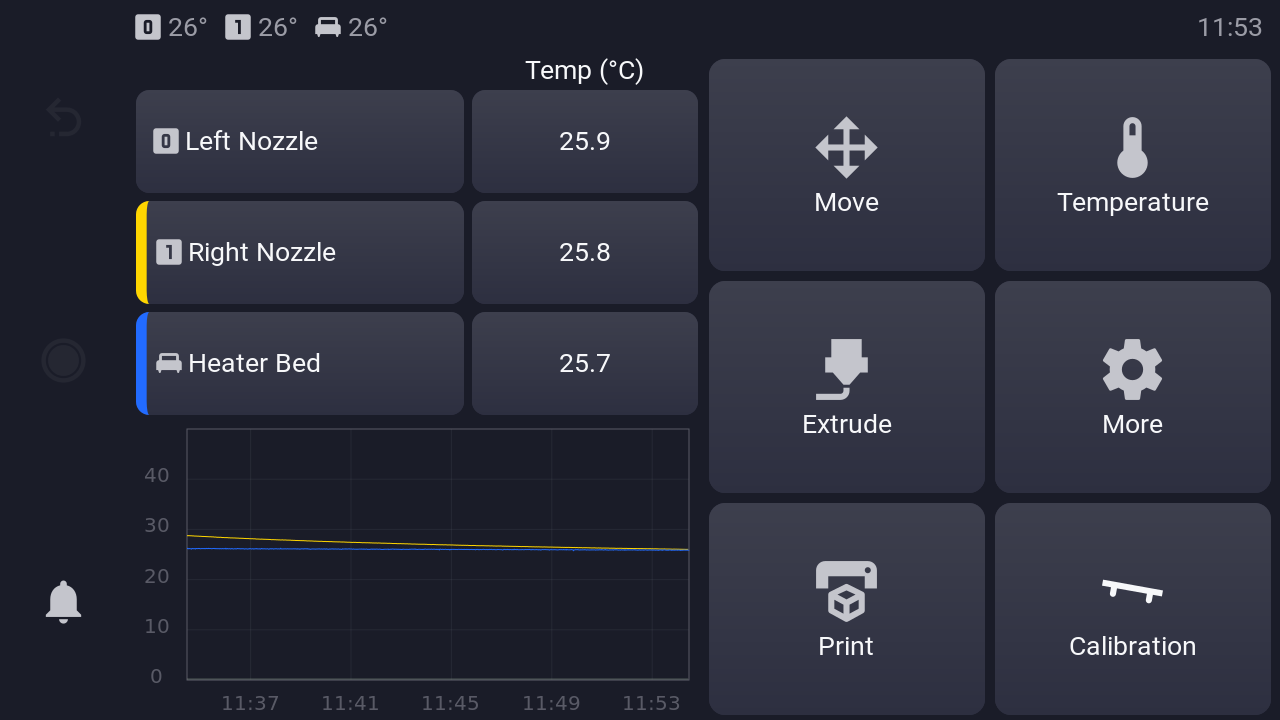
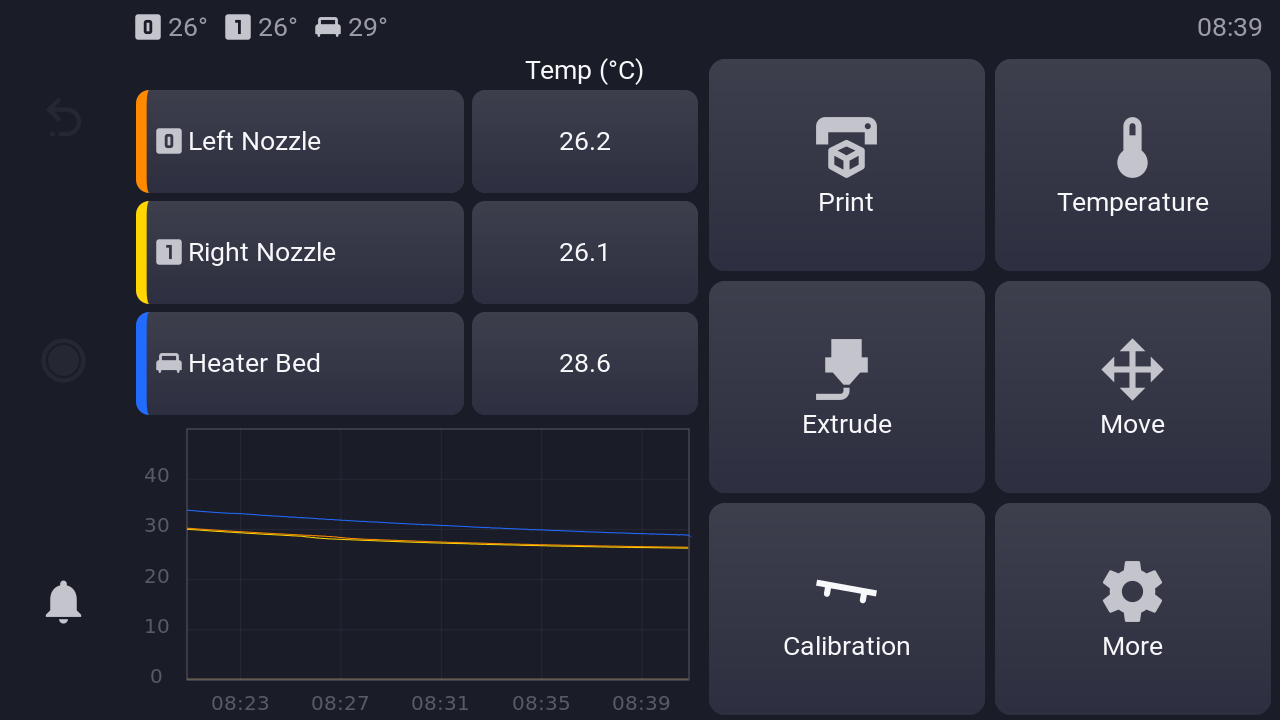
Describe both ways between the stock firmware and Klipper
The README describes the installation from a USB stick (stock firmware
-> Klipper) and the way back (Klipper -> stock firmware) with every
screen on the way.  The user manual has the new menus with new pictures
(main menu, More, Network, the end of System and Stock Firmware); the
system picture shows no addresses of the test printer.

diff --git a/docs/Manual.md b/docs/Manual.md
@@ -40,10 +40,10 @@ implemented, configuration) see [Snapmaker_J1.md](Snapmaker_J1.md).
 > **Important.**  Do both steps on the first start, before the first
 > print.
 
-1. **Connect the WLAN** under **More → Network**: choose the network and
-   enter its password.  The printer needs the network for
+1. **Connect the WLAN** under **More → Network → WLAN**: choose the
+   network and enter its password.  The printer needs the network for
    - the **clock**: the display module has no battery for its clock and
-     takes the time from the network (see [Clock](#network-name-and-clock));
+     takes the time from the network (see [Clock](#clock));
    - the **updates** of KlipperSnapmakerJ1, Klipper, Moonraker and
      KlipperScreen; the printer checks for updates as soon as the WLAN is
      connected;
@@ -75,16 +75,17 @@ shutdown button: the J1 is switched off with its power switch.
 **Main menu.**
 - **Left:** the heaters with their current temperatures and a graph of
   the last minutes.  Tap a heater to set its temperature.
-- **Right:** the six main entries.
+- **Right:** the six main entries, in the order of a print: the print
+  itself first, then preparing it, the setup and More last.
 
 | Entry | Content |
 | --- | --- |
-| Move | home and move the axes, switch the active toolhead |
+| Print | files on the printer |
 | Temperature | heat, cool down, material presets |
 | Extrude | load, unload, extrude, filament sensors, pressure advance |
-| More | settings, fans, light, network, updates, console |
-| Print | files on the printer |
+| Move | home and move the axes, switch the active toolhead |
 | Calibration | the J1 calibration menu |
+| More | settings, fans, light, network, updates, console, system |
 
 The left nozzle is called **Left Nozzle** (T0, `extruder`) and the right
 one **Right Nozzle** (T1, `extruder1`).
@@ -496,11 +497,17 @@ set its thickness in 0.1 mm steps and tap **Save**.  It applies at once.
 
 ![More](manual/more.png)
 
-The generic KlipperScreen entries are joined by J1 entries: Light,
-Network Name, Clock and Pause Standby.  The generic bed level, bed mesh,
-Z calibrate, input shaper and Save Config entries are hidden.  The
-calibration menu covers them, and its results are stored without Save
-Config.
+The entries are arranged in three rows:
+
+| Row | Entries |
+| --- | --- |
+| Printing | Fine Tuning, Limits, Fan, Pause Standby |
+| Settings of the printer | Light, Clock, Network, KlipperScreen |
+| Tools and maintenance | Macros, Console, Update, System |
+
+The generic bed level, bed mesh, Z calibrate, input shaper and Save
+Config entries are hidden.  The calibration menu covers them, and its
+results are stored without Save Config.
 
 ### Light
 
@@ -558,37 +565,68 @@ What happens to a paused print:
 
 Set the bed standby temperature and the delay here; they are kept.
 
-### Network Name and Clock
+### Network
 
 <table>
-<tr><td><img src="manual/network-name.png" width="420"></td>
-<td><img src="manual/clock.png" width="420"></td></tr>
+<tr><td><img src="manual/network.png" width="420"></td>
+<td><img src="manual/network-name.png" width="420"></td></tr>
 </table>
 
+- **WLAN:** choose the network and enter its password; the page also
+  shows the address of the printer.
 - **Network Name:** the name of the printer in the network.  The web
   interface is reached at `http://<name>.local`.  Give each printer its
   own name when you have several.
-- **Clock:** sets the time zone and switches the clock in the title bar
-  on or off.  **The clock only runs correctly with the WLAN connected:**
-  the display module has no battery for its clock and takes the time
-  from the network.  Without a network the printer starts with the last
-  time it knew, so the clock, the print history and the log files show
-  a wrong time.
+
+### Clock
+
+![Clock](manual/clock.png)
+
+Sets the time zone and switches the clock in the title bar on or off.
+**The clock only runs correctly with the WLAN connected:** the display
+module has no battery for its clock and takes the time from the network.
+Without a network the printer starts with the last time it knew, so the
+clock, the print history and the log files show a wrong time.
 
 ### Other entries
 
 | Entry | Content |
 | --- | --- |
+| KlipperScreen | settings of the screen (language, theme, font size) |
 | Macros | runs Klipper macros |
 | Console | Klipper's g-code console |
 | Update | updates of KlipperSnapmakerJ1, Klipper, Moonraker and KlipperScreen |
-| KlipperScreen | settings of the screen (language, theme, font size) |
-| Network | WLAN connection |
-| System | system information, restart and shutdown of the host |
+| System | system information of the display module; at its end the way back to the [stock firmware](#back-to-the-stock-firmware) |
 
 **Updates.** Update KlipperSnapmakerJ1 first.  Klipper, Moonraker and
 KlipperScreen are offered only up to the versions this release is tested
 with.
+
+### Back to the stock firmware
+
+<table>
+<tr><td><img src="manual/system-stock.png" width="420"></td>
+<td><img src="manual/stock-firmware.png" width="420"></td></tr>
+</table>
+
+A fallback, so it sits at the end of **More → System** (scroll down):
+**Stock Firmware** returns the printer to the Snapmaker firmware.  It
+needs a USB stick with the contents of the stock firmware package (the
+official `J1_V*.bin` and the folder `stock-restore`).
+
+1. Plug in the stick and open **Stock Firmware**.  The page searches the
+   stick and shows the package and the Snapmaker system it found; **Search
+   USB Stick** searches again.
+2. Tap **Restore Stock Firmware** and confirm.  Not possible while
+   printing.
+3. Leave the stick plugged in and do not switch the printer off.  The
+   main controller gets the Snapmaker firmware, then the printer restarts
+   into its maintenance system, which writes the Snapmaker system, and
+   starts the Snapmaker system.
+
+Klipper, its settings, the calibrations and the files on the printer are
+deleted.  The Snapmaker setup then starts as on a new printer.  The
+[installation](../README.md#installation) describes both ways in full.
 
 ## Safety and error messages
 
@@ -634,7 +672,7 @@ The protections of the stock firmware are active:
 Besides the touch screen, the printer is operated from any browser in the
 network with **Mainsail**, which runs on the printer itself.  Open
 `http://snapmaker-j1.local`, or the name set in
-[Network Name](#network-name-and-clock), or the IP address shown in
+[Network Name](#network), or the IP address shown in
 KlipperScreen.  Touch screen and web interface work at the same time and
 always show the same state.
 

diff --git a/README.md b/README.md
@@ -115,31 +115,75 @@ starts prints directly.
 
 ## Installation
 
-> **In preparation.** The steps below describe the planned installation
-> from a USB stick.  Until the package is released, the installation
-> needs the EDL mode of the display module and a Linux computer, see the
-> [installation of KlipperSnapmakerJ1-os](https://github.com/Nimrasol/KlipperSnapmakerJ1-os/blob/main/docs/INSTALL.md).
+> **In preparation.** Both ways below run from a USB stick, without
+> opening the printer, and are tested on one J1.  Until the packages are
+> released, they are built with
+> [KlipperSnapmakerJ1-os](https://github.com/Nimrasol/KlipperSnapmakerJ1-os);
+> the installation in the EDL mode of the display module is described
+> in its [installation guide](https://github.com/Nimrasol/KlipperSnapmakerJ1-os/blob/main/docs/INSTALL.md).
 
-1. **Download** the installation package from the
-   [releases page](https://github.com/Nimrasol/KlipperSnapmakerJ1/releases/latest)
-   and copy it to a USB stick (FAT32).
+### Stock firmware → Klipper
+
+The installation package holds an update package for the Snapmaker
+system (`J1_V*.bin`: the stock main controller firmware and the
+installer) and the Klipper system in the folder `install`.
+
+1. **Copy** the contents of the installation package to a USB stick
+   (FAT32): `J1_V*.bin` and the folder `install`.
 2. **Insert the stick** into the USB port on the front of the J1 and
-   start the update on the stock touch screen.
-3. **Wait** until the printer restarts.  The Klipper main menu appears on
-   the touch screen.
-4. **Connect to your network** under **More → Network** (required).  The
-   clock, the updates and the web interface need it; the printer is then
-   reachable at `http://snapmaker-j1.local`.
+   start the firmware update from the USB stick on the Snapmaker touch
+   screen; confirm it.
+3. **Wait**, leave the stick plugged in and do not switch the printer
+   off.  The printer runs through these screens by itself:
+   - the Snapmaker update up to 99 %;
+   - **Klipper installation** for a moment, a white screen, then the
+     screen goes dark for up to a minute while the boot partitions are
+     written;
+   - the Snapmaker logo, then white text: the maintenance system checks
+     the files on the stick and writes the Klipper system (a few
+     minutes);
+   - the first start of Klipper installs the Klipper firmware on the
+     main controller (about a minute), then the Klipper main menu
+     appears.
+4. **Connect to your network** under **More → Network → WLAN**
+   (required).  The clock, the updates and the web interface need it;
+   the printer is then reachable at `http://snapmaker-j1.local`.
 5. **Calibrate** in the **Calibration** menu before the first print
    (required), in the order of the
    [user manual](docs/Manual.md#first-start-connect-the-wlan-and-calibrate):
    bed leveling, Z offset, XY offset, offset check.  Without it the
    nozzle height and the offset between the nozzles are not right.
 
-### Back to the stock firmware
+If the screen **Klipper installation** reports a failure, or stays
+without restarting the printer, tap **Back to Snapmaker**: the Snapmaker
+app returns.  Until the printer restarts, nothing of the Snapmaker system
+has been changed.
 
-*In preparation:* the stock firmware package installs the stock system
-again the same way, from a USB stick.
+### Klipper → stock firmware
+
+The stock firmware package holds the official Snapmaker update package
+(`J1_V*.bin`) and the Snapmaker system of the display module in the
+folder `stock-restore`.
+
+1. **Copy** the contents of the stock firmware package to a USB stick
+   (FAT32) and insert it into the USB port on the front of the J1.
+2. On the touch screen open **More → System**, scroll to the end and tap
+   **Stock Firmware**.  The page shows the package and the Snapmaker
+   system it found on the stick.
+3. Tap **Restore Stock Firmware** and confirm (not possible while
+   printing).  Leave the stick plugged in and do not switch the printer
+   off:
+   - the main controller gets the Snapmaker firmware (1 to 3 minutes);
+   - the printer restarts into the maintenance system, which checks the
+     files and writes the Snapmaker system (a few minutes);
+   - the printer starts the Snapmaker system.
+4. The **Snapmaker setup** starts as on a new printer: language, WLAN
+   and the calibrations.  Finish it before printing.
+
+Klipper, its settings, the calibrations and the files on the printer are
+deleted; the way to Klipper stays open with the installation package.
+See the [user manual](docs/Manual.md#back-to-the-stock-firmware) for the
+screens.
 
 ## Status
 

diff --git a/docs/Snapmaker_J1.md b/docs/Snapmaker_J1.md
@@ -777,10 +777,15 @@ seconds after Klipper is ready.  The dim settings are stored in
 The add-on hides the shutdown button of the action
 bar (the J1 is switched off with its power switch; the emergency stop
 still shows while printing) and names the nozzles "Left Nozzle" and
-"Right Nozzle".  "More → Network Name" sets the host name the printer
-announces as `<name>.local` (NetworkManager and avahi on the D-Bus,
-allowed for the group `netdev`), so several printers in one network
-get their own addresses.  "More → Clock" sets the time zone (region,
+"Right Nozzle".  It orders the main menu and More (`MENU_ORDER`;
+KlipperScreen itself shows the entries in the order of its config
+sections) and joins the WLAN panel and the network name in a Network
+submenu.  "More → Network → Network Name" sets the host name the
+printer announces as `<name>.local` (NetworkManager and avahi on the
+D-Bus, allowed for the group `netdev`), so several printers in one
+network get their own addresses.  The way back to the stock firmware
+is a small button at the end of "More → System"
+(`scripts/snapmaker_j1_stock.py`).  "More → Clock" sets the time zone (region,
 then city; systemd-timedated, which KlipperSnapmakerJ1-os allows for the
 group `netdev`), shows whether the time is synchronized and switches the
 clock in the title bar on or off (stored in

diff --git a/CHANGELOG.md b/CHANGELOG.md
@@ -10,6 +10,19 @@ released as git tags `vX.Y.Z`.  The update manager shows this version.
   Klipper, Moonraker or KlipperScreen (`versions.conf`).
 - **PATCH:** fixes.
 
+## Unreleased
+
+- **Back to the stock firmware** from the touch screen: More → System,
+  at the end of the page, **Stock Firmware** installs the official
+  Snapmaker update package and the Snapmaker system from a USB stick
+  (with [KlipperSnapmakerJ1-os](https://github.com/Nimrasol/KlipperSnapmakerJ1-os)).
+- **Menus:** the main menu in the order of a print (Print, Temperature,
+  Extrude, Move, Calibration, More); More in rows for printing,
+  settings and maintenance; WLAN and Network Name in one Network menu.
+- **Documentation:** both ways, stock firmware → Klipper and Klipper →
+  stock firmware, in the installation; new pictures of the changed
+  screens.
+
 ## v1.0.1 (2026-10-27)
 
 - **Documentation:** the user manual starts with the first start: connect
